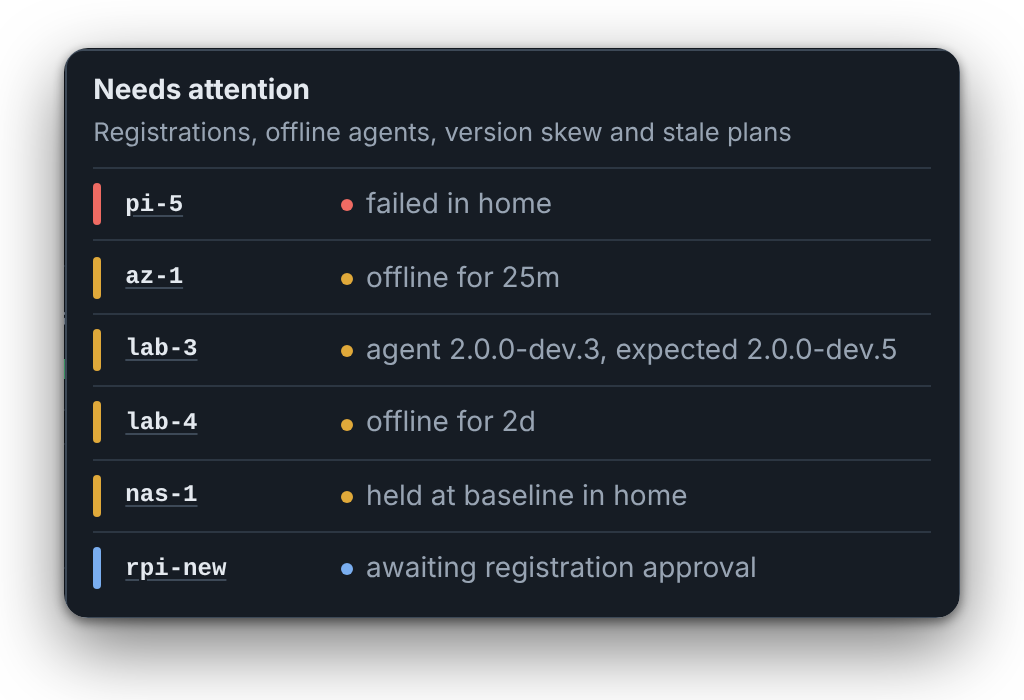
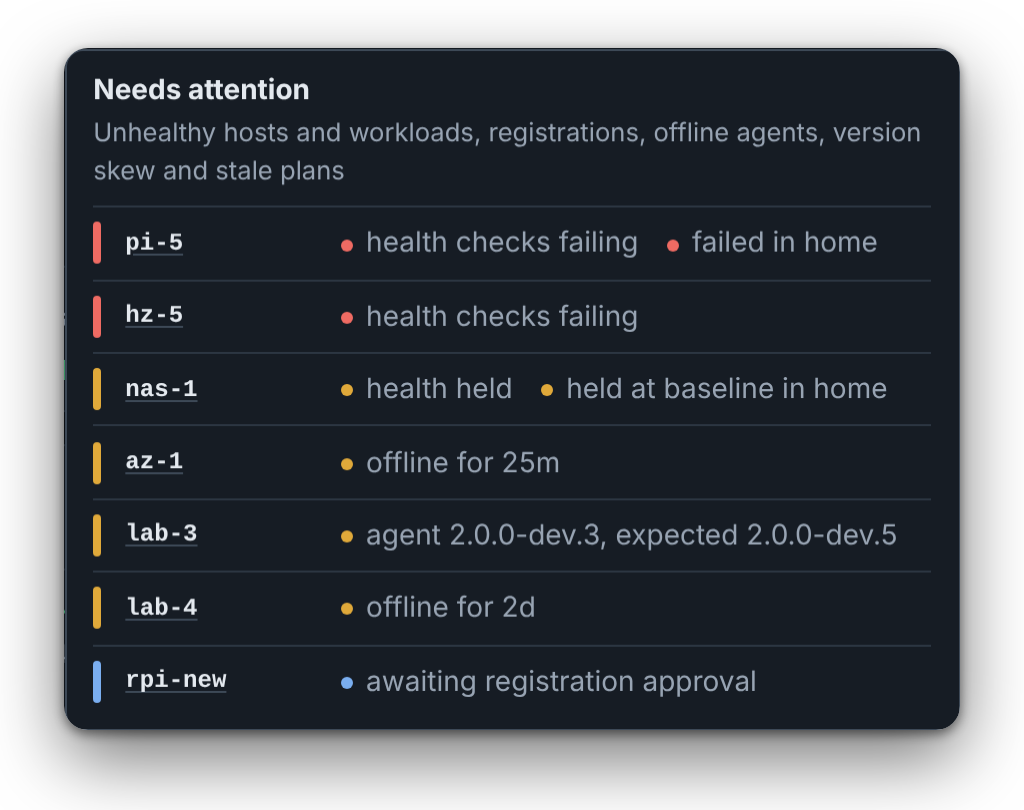
ui: unhealthy hosts and failing workloads in the attention bell (#811)
Connected hosts with failing or held health, and clusters whose workloads
have a required check failing, join the Needs attention list; each row
links to its host or cluster.

Claude-Session: https://claude.ai/code/session_01WkowUwf5wtrsp9J7JSE5ms

Changed region(s): [[0.0625, 0.27, 0.9375, 0.93], [0.0625, 0.06, 0.9375, 0.27]]

diff --git a/ui/src/logic/fleet.rs b/ui/src/logic/fleet.rs
@@ -146,6 +146,12 @@ pub enum Concern {
     Failed { phase: String },
     /// Held at baseline in the active rollout: unhealthy before Buckle touched it.
     Held { phase: String },
+    /// Connected, with a required health check failing now.
+    Unhealthy,
+    /// Connected, with its health held.
+    HealthHeld,
+    /// A cluster whose workloads have a required check failing now.
+    WorkloadsFailing { workloads: Vec<String> },
 }
 
 impl Concern {
@@ -153,8 +159,11 @@ impl Concern {
     pub fn tone(&self) -> super::tone::Tone {
         use super::tone::Tone;
         match self {
-            Concern::Failed { .. } => Tone::Danger,
+            Concern::Failed { .. } | Concern::Unhealthy | Concern::WorkloadsFailing { .. } => {
+                Tone::Danger
+            }
             Concern::Held { .. }
+            | Concern::HealthHeld
             | Concern::StalePlan { .. }
             | Concern::VersionSkew { .. }
             | Concern::Offline { .. } => Tone::Warn,
@@ -187,6 +196,14 @@ impl Concern {
             Concern::StalePlan { phase } => format!("plan changed after {phase} was approved"),
             Concern::Failed { phase } => format!("failed in {phase}"),
             Concern::Held { phase } => format!("held at baseline in {phase}"),
+            Concern::Unhealthy => "health checks failing".into(),
+            Concern::HealthHeld => "health held".into(),
+            Concern::WorkloadsFailing { workloads } => {
+                format!(
+                    "{} failing",
+                    super::format::count(workloads.len(), "workload", "workloads")
+                ) + &format!(": {}", workloads.join(", "))
+            }
         }
     }
 }
@@ -254,10 +271,11 @@ pub fn agents_behind<'a>(hosts: &'a [HostSummary], target: &str) -> Behind<'a> {
     out
 }
 
-/// The agents needing attention, worst first: by their most severe concern,
-/// then by how many they have, then by name.
+/// The hosts and clusters needing attention, worst first: by their most
+/// severe concern, then by how many they have, then by name.
 pub fn attention(
     hosts: &[HostSummary],
+    clusters: &[HostSummary],
     server_version: Option<&str>,
     rollout: Option<&RolloutDetail>,
     now: DateTime<Utc>,
@@ -277,6 +295,14 @@ pub fn attention(
         {
             concerns.push(Concern::Offline { since: h.last_seen });
         }
+        // An offline host's last reading is not a statement about now.
+        if h.status != HostStatus::Pending && h.connection == Connection::Online {
+            match h.health {
+                HealthSummary::Failing => concerns.push(Concern::Unhealthy),
+                HealthSummary::Held => concerns.push(Concern::HealthHeld),
+                _ => {}
+            }
+        }
         if let (Some(running), Some(expected)) = (h.agent_version.as_deref(), expected)
             && running != expected
         {
@@ -287,6 +313,19 @@ pub fn attention(
         }
         if !concerns.is_empty() {
             out.insert(h.id.clone(), concerns);
+        }
+    }
+
+    for c in clusters {
+        let failing = c
+            .cluster_status
+            .as_ref()
+            .map(|s| s.failing.clone())
+            .unwrap_or_default();
+        if !failing.is_empty() {
+            out.entry(c.id.clone())
+                .or_default()
+                .push(Concern::WorkloadsFailing { workloads: failing });
         }
     }
 
@@ -577,7 +616,7 @@ mod tests {
         };
 
         let hosts = vec![host("pi-2"), host("pi-5"), pending, gone, blip, skewed];
-        let list = attention(&hosts, Some("2.0.0"), Some(&rollout), now);
+        let list = attention(&hosts, &[], Some("2.0.0"), Some(&rollout), now);
         let names: Vec<&str> = list.iter().map(|(h, _)| h.as_str()).collect();
         assert_eq!(names, vec!["pi-5", "lab-3", "az-1", "new-1"]);
         assert_eq!(
@@ -593,5 +632,46 @@ mod tests {
             ]
         );
         assert_eq!(list[2].1[0].describe(now), "offline for 25m");
+    }
+
+    #[test]
+    fn attention_lists_unhealthy_hosts_and_failing_workloads() {
+        let now = Utc::now();
+        let mut failing = host("pi-1");
+        failing.health = HealthSummary::Failing;
+        let mut held = host("pi-2");
+        held.health = HealthSummary::Held;
+        let mut stale = host("pi-3");
+        stale.connection = Connection::Offline;
+        stale.health = HealthSummary::Failing;
+        stale.last_seen = Some(now);
+        let clusters = [
+            cluster(3, Some("pi-1"), &["api", "web"], &[]),
+            HostSummary {
+                id: "quiet".into(),
+                ..cluster(1, Some("pi-1"), &[], &[])
+            },
+        ];
+
+        let list = attention(
+            &[failing, held, stale, host("pi-4")],
+            &clusters,
+            Some("2.0.0"),
+            None,
+            now,
+        );
+        let find = |id: &str| list.iter().find(|(h, _)| h == id).map(|(_, c)| c.clone());
+        assert_eq!(find("pi-1"), Some(vec![Concern::Unhealthy]));
+        assert_eq!(find("pi-2"), Some(vec![Concern::HealthHeld]));
+        assert_eq!(
+            find("pi-3"),
+            None,
+            "an offline host's stale reading is not a concern"
+        );
+        assert_eq!(find("pi-4"), None);
+        assert_eq!(find("quiet"), None);
+        let workloads = find("c").expect("the cluster with failing workloads");
+        assert_eq!(workloads[0].tone(), crate::logic::tone::Tone::Danger);
+        assert!(workloads[0].describe(now).contains("api, web"));
     }
 }

diff --git a/ui/src/components/attention.rs b/ui/src/components/attention.rs
@@ -1,6 +1,7 @@
-//! The app bar's bell: how many agents need attention (registrations,
-//! offline agents, version skew, and the live rollout's failed, held or
-//! stale-plan hosts), with the list in a dropdown. The list is only in the
+//! The app bar's bell: how many hosts and clusters need attention
+//! (registrations, offline agents, version skew, failing or held health,
+//! failing workloads, and the live rollout's failed, held or stale-plan
+//! hosts), with the list in a dropdown. The list is only in the
 //! page while the dropdown is open.
 
 use buckle_api::{Fleet, RolloutDetail};
@@ -80,8 +81,8 @@ pub fn attention_bell() -> Html {
     let worst = worst(list.iter().flat_map(|(_, c)| c));
     let label = match list.len() {
         0 => "Nothing needs attention".to_string(),
-        1 => "1 agent needs attention".to_string(),
-        n => format!("{n} agents need attention"),
+        1 => "1 target needs attention".to_string(),
+        n => format!("{n} targets need attention"),
     };
     html! {
         <div class={classes!("bell", (*open).then_some("bell--open"))} ref={node}
@@ -97,14 +98,14 @@ pub fn attention_bell() -> Html {
                 <div class="bell__panel" role="dialog" aria-label="Needs attention" tabindex="-1">
                     <div class="bell__head">
                         <span class="bell__title">{ "Needs attention" }</span>
-                        <span class="muted small">{ "Registrations, offline agents, version skew and stale plans" }</span>
+                        <span class="muted small">{ "Unhealthy hosts and workloads, registrations, offline agents, version skew and stale plans" }</span>
                     </div>
                     if list.is_empty() {
-                        <p class="bell__empty muted">{ "Every agent is registered, connected, current and on a plan its phase approved." }</p>
+                        <p class="bell__empty muted">{ "Every host and workload is healthy, and every agent registered, connected, current and on a plan its phase approved." }</p>
                     } else {
                         <ul class="attention">
                             { for list.into_iter().map(|(host, concerns)| {
-                                let summary = f.hosts.iter().find(|h| h.id == host).cloned();
+                                let summary = f.hosts.iter().chain(&f.clusters).find(|h| h.id == host).cloned();
                                 html! {
                                     <li class={classes!("attention__item", worst_of(&concerns).class())} data-host={host.clone()}>
                                         <span class="attention__mark" aria-hidden="true" />
@@ -132,6 +133,7 @@ fn concerns(
 ) -> Vec<(String, Vec<Concern>)> {
     attention(
         &f.hosts,
+        &f.clusters,
         f.desired_agent_version
             .as_deref()
             .or(f.server_version.as_deref()),
